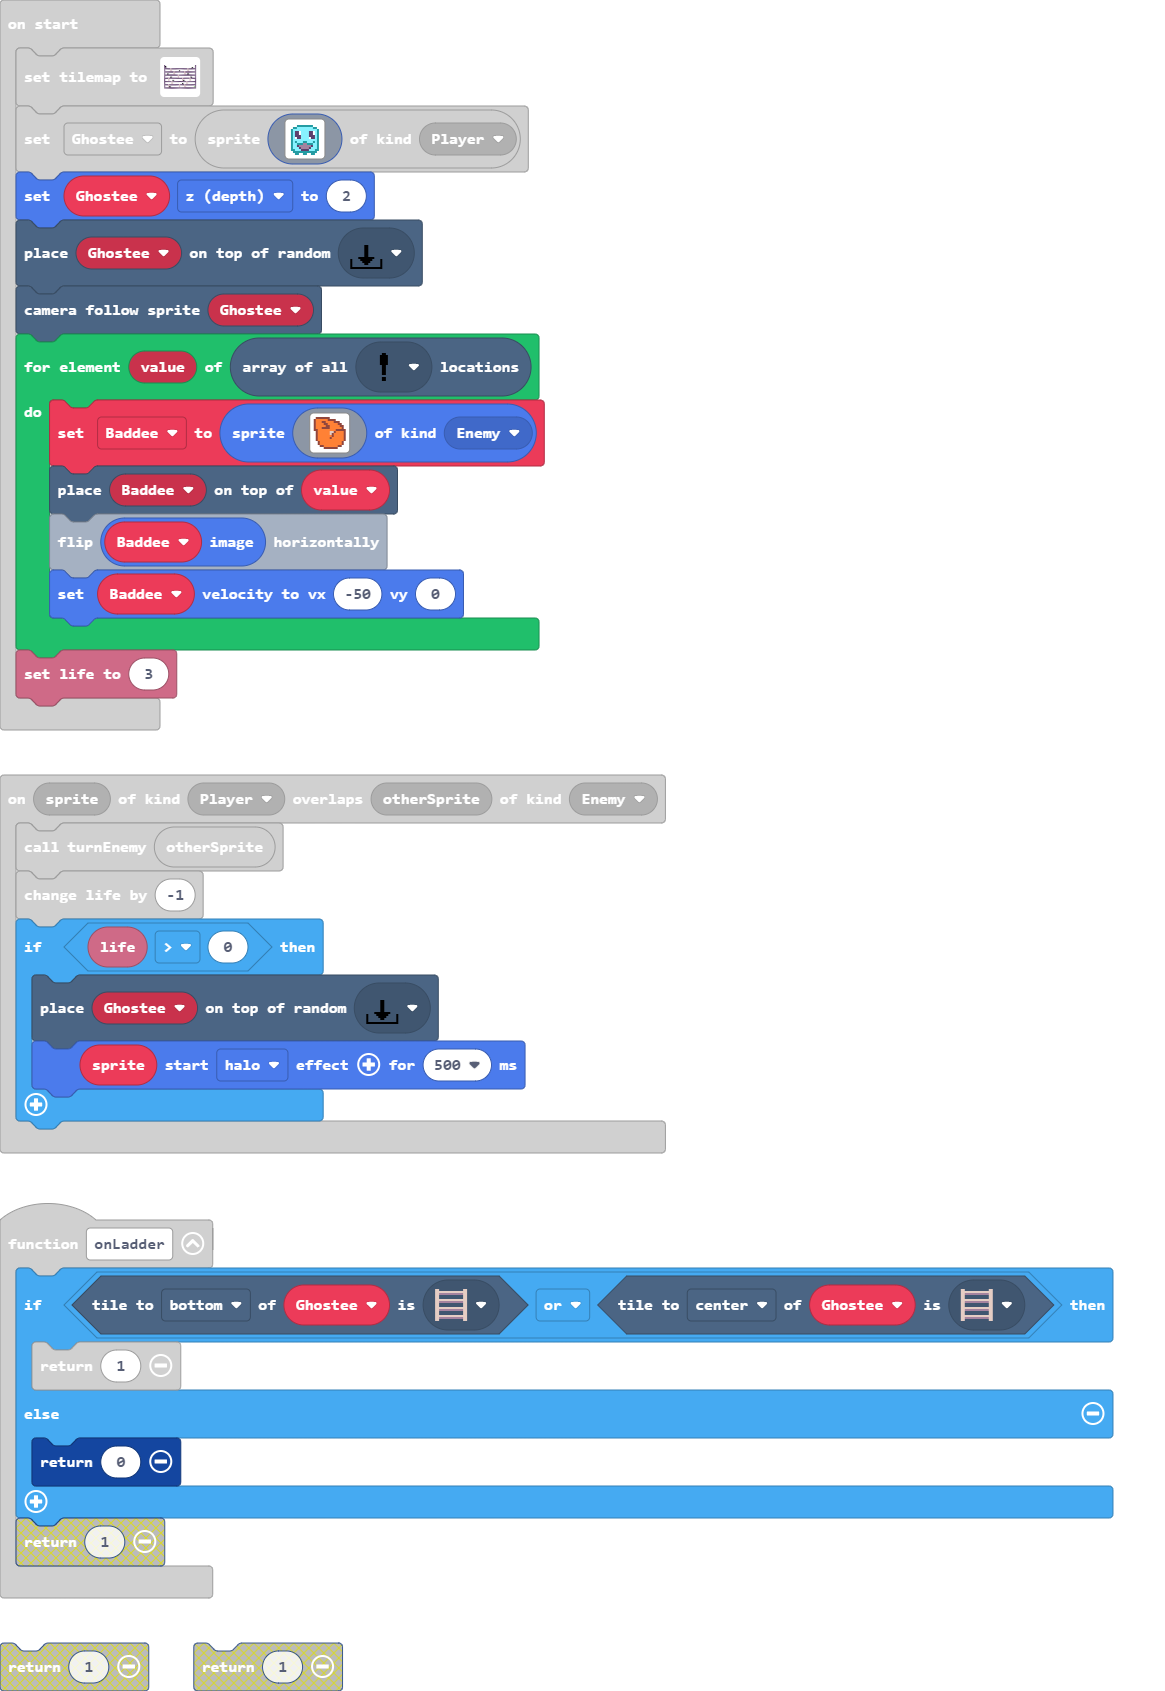
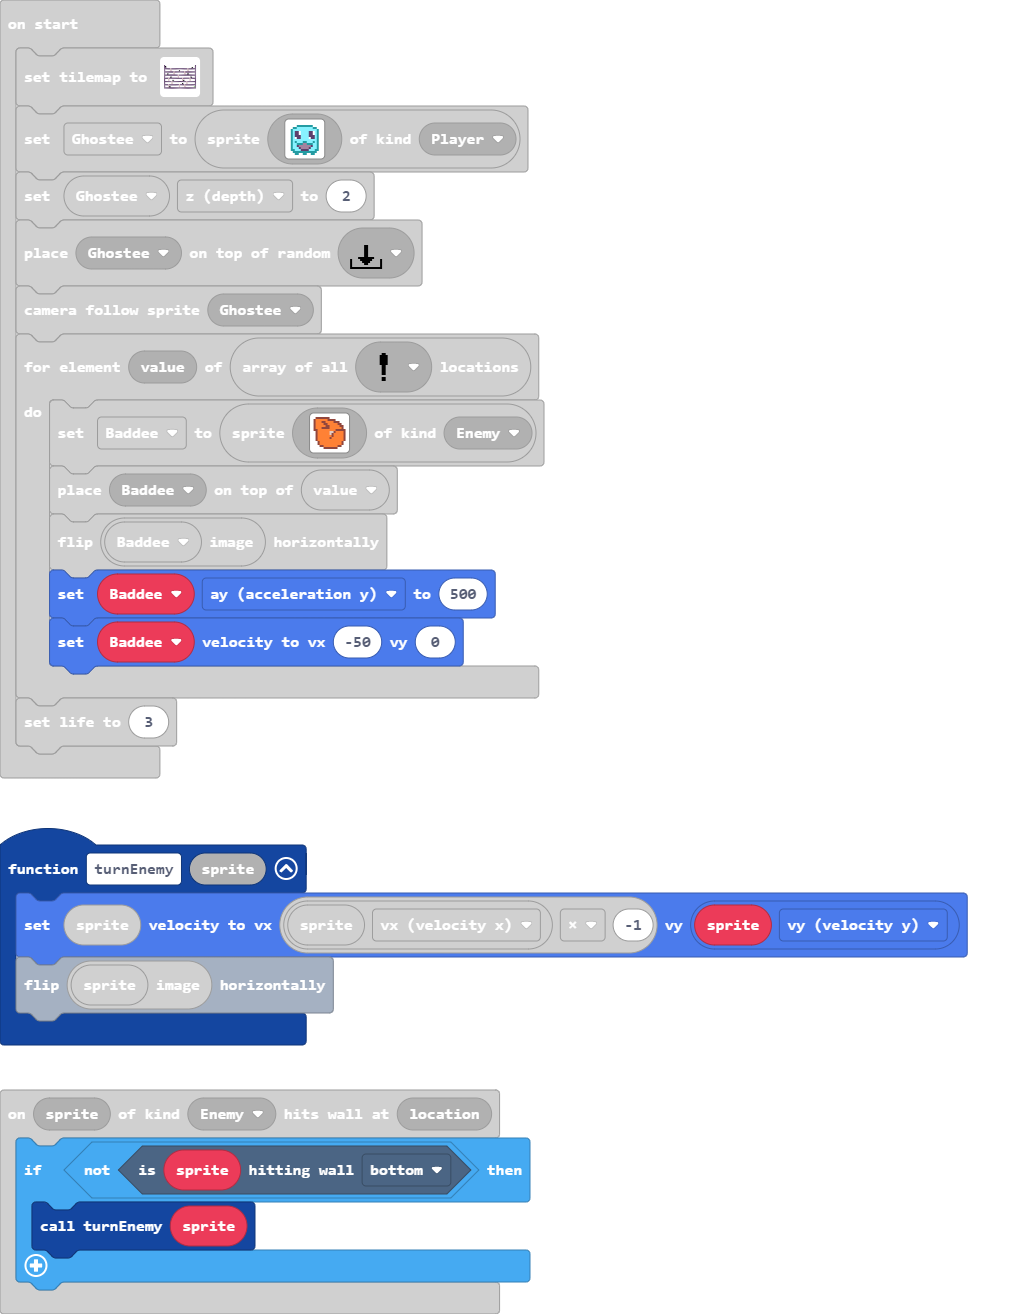
Add enemy gravity to prep for jumpers

diff --git a/main.ts b/main.ts
@@ -11,7 +11,9 @@ function setClimbing (on: boolean) {
     }
 }
 scene.onHitWall(SpriteKind.Enemy, function (sprite, location) {
-    turnEnemy(sprite)
+    if (!(sprite.isHittingTile(CollisionDirection.Bottom))) {
+        turnEnemy(sprite)
+    }
 })
 function onLadder () {
     if (Ghostee.tileKindAt(TileDirection.Bottom, myTiles.tile5) || Ghostee.tileKindAt(TileDirection.Center, myTiles.tile5)) {
@@ -24,8 +26,8 @@ info.onLifeZero(function () {
     game.over(false)
 })
 function turnEnemy (sprite: Sprite) {
+    sprite.setVelocity(sprite.vx * -1, sprite.vy)
     sprite.image.flipX()
-    sprite.setVelocity(sprite.vx * -1, 0)
 }
 sprites.onOverlap(SpriteKind.Player, SpriteKind.Enemy, function (sprite, otherSprite) {
     turnEnemy(otherSprite)
@@ -80,6 +82,7 @@ for (let value of tiles.getTilesByType(myTiles.tile4)) {
         `, SpriteKind.Enemy)
     tiles.placeOnTile(Baddee, value)
     Baddee.image.flipX()
+    Baddee.ay = 500
     Baddee.setVelocity(-50, 0)
 }
 info.setLife(3)
